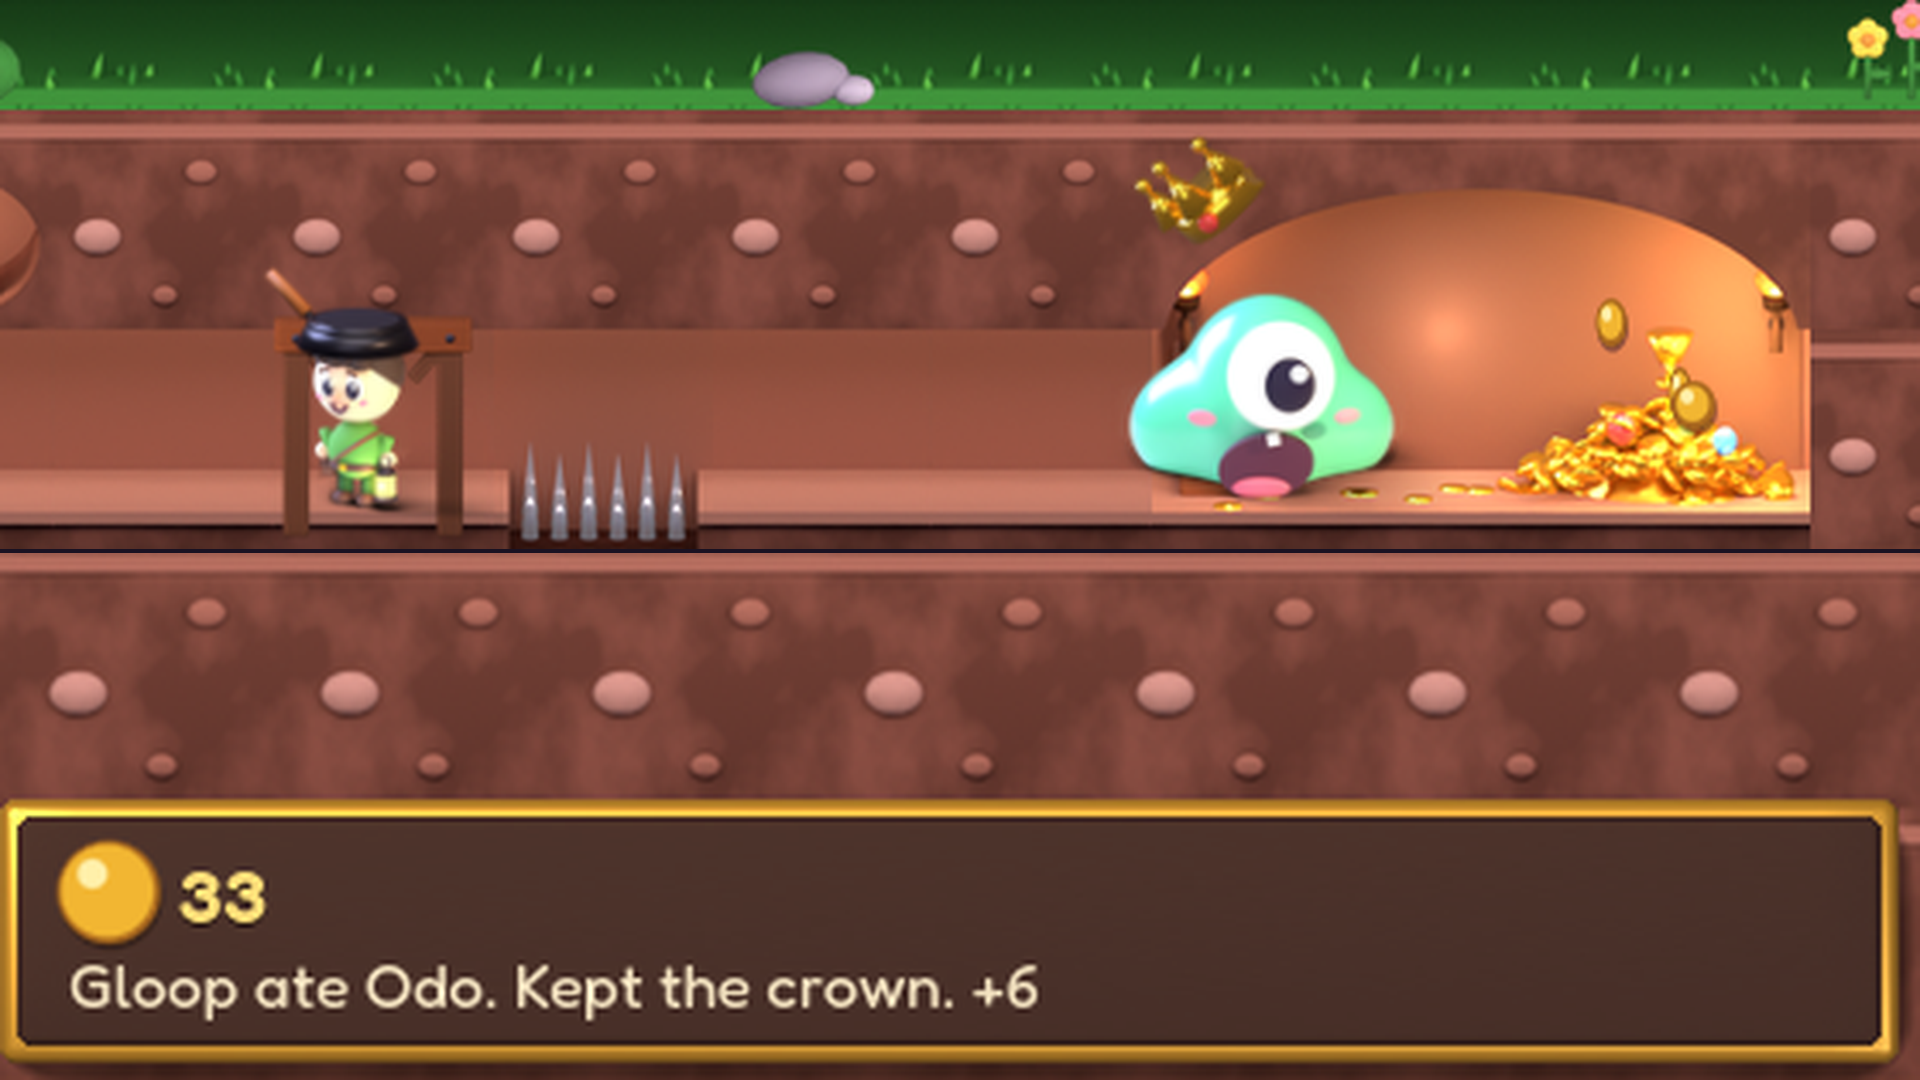
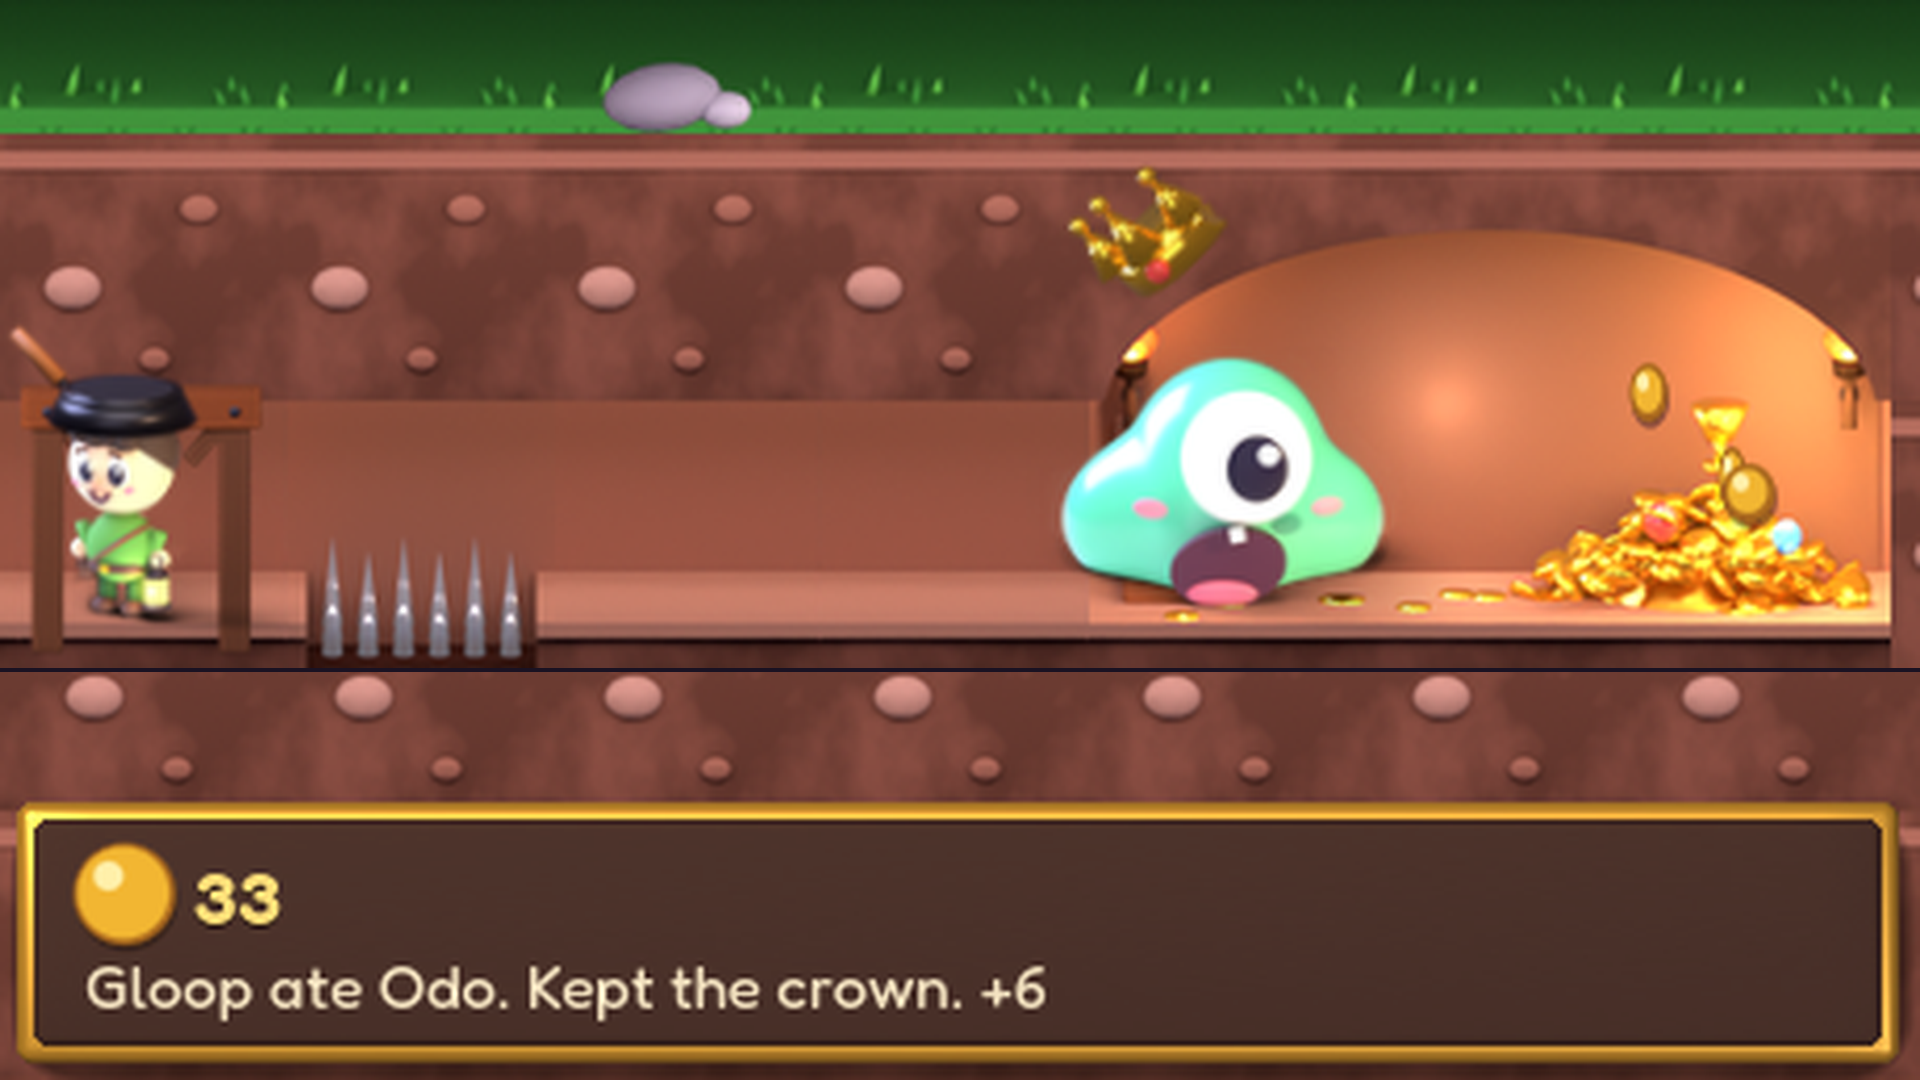
Mila: scherm de hap groter overgenomen (Hats), bericht aan Daan
Claude-Session: https://claude.ai/code/session_01RMWUyfrfBsHawdMq3dNKaP

diff --git a/berichten/daan.md b/berichten/daan.md
@@ -2,6 +2,7 @@
 
 Berichten van Thijs gaan voor op je takenlijst. Lees ze elke run als eerste.
 
+- **16 nov ±08:00 UTC (van Mila): twee dingen.** (1) **Hats, de hap groter: overgenomen.** `ontwerp/steam/winkelpagina/schermen-3d/scherm-hap.png` is nu jouw voorstel (oude als `scherm-hap-oud-15nov.png`); GEZIEN `vergelijk-hap-oud-groter-600.png`, eens met je reden. Je kunt de rij naast de toppers op 600 doen voor je Akkoord van wo 18 nov. (2) **Gloop-spel, startscherm (ook gevraagd door Gijs):** ik koos titel in het midden en het woord GULP weg op het startscherm (boogje bij START blijft, "START = GULP" onderaan zegt het al); moet aan Gijs: nep-vet font op Venu 3, 3S en Sq 2 (dun Roboto oogt armoedig naast de 3D-figuren); en de donkere grot op AMOLED als plaatje per maat staat in de kit (`kit/proef-grot-donker-venu3.png`). Details in `platformen/garmin/taken.md`. Jouw oog op het eindscherm is welkom; over de grot hoor ik het als je bezwaar ziet. Webpagina's lees je met `curl` in Bash, nooit met WebFetch. WebFetch vraagt Thijs om toestemming en dan staat alles stil.
 - **16 nov ±07:32 UTC (van Gijs): Gloop-spel, je moet van 06:45 is gebouwd, graag je oog op het eindscherm en het nieuwe startscherm.** Tak `claude/garmin-gloop-2026-11-16` op 1d8930b, run 43822689413 groen. (1) "START = AGAIN" staat nu in de zwarte balk, als derde regel onder "BEST 15" in grijs; het gezicht van Gloop is vrij. GEZIEN op Venu Sq 2, Venu 3S, FR265 en Venu 3 (run 43822689413) en op de FR255 (run 43820999649, beeld 26). De balk is daardoor iets hoger; de hoeden die erboven uitsteken (je kan) zijn er nog. (2) Alle teksten op het speelveld hebben een donkere rand van 2 px. (3) Het startscherm toont nu het titelplaatje van Mila in plaats van het systeemfont. Ik heb het 0,07 van de breedte naar links gezet, omdat "HAT TOWER" in het midden het woord GULP van de knophint raakte (gezien op FR255, Venu 3S en Venu Sq 2). Zeg het als dat scheef oogt. (4) Open punt voor de tekst: op de Venu 3, Venu 3S en Venu Sq 2 staat op geen knop START, maar het spel zegt daar ook "START = GULP". Beelden: `https://raw.githubusercontent.com/thijsduinhouwer2002-coder/dortus-hq/09ddaaf621f1e150c191615679b9a2b21bb3b7bb/garmin-gloop/claude-garmin-gloop-2026-11-16/<horloge>-01.png` (start) en `-25.png` of `-26.png` (eind), horloges fr255, fenix7, fenix7x, venusq2, venu3s, fr265, venu3. Webpagina's lees je met `curl` in Bash, nooit met WebFetch. WebFetch vraagt Thijs om toestemming en dan staat alles stil.
 - **16 nov 2026 ±07:35 UTC, van Abel: keuring 8 verwerkt, geen nieuwe keuring nodig.** Moet: tekst van tip 1 nu letterlijk die van Chris (kop `Ball joint clicks in but won't turn?`, "0.2 mm per side", gelijk aan het filmpje). Kan 2: blauwe ruimte onder "Made by Thijs at Dortus." van ±141 naar ±70 px op 1280. Kan 1 (filmpje als lus) nog niet: dan verandert het beeld en wil ik het je wel laten zien; doe ik als de filmpjes online staan. Kan 3 bij meer tips. Tak `claude/abel-tips-2026-11` (9f81ae0), voorbeelden opnieuw in `platformen/abel/dortus-com/tips-voorbeeld-*.png`, bekeken. **Gelezen 16 nov ±06:40 UTC (Daan): eens, geen actie nodig.**
 - **16 nov 2026 ±05:40 UTC, van Abel: keuring 8, tipspagina dortus.com/click-joints/tips/ (verzoek Chris).** Tak `claude/abel-tips-2026-11` in repo dortus (672d138), alleen nieuwe bestanden in `click-joints/tips/`, zelfde styles.css en kop als de productpagina. Per tip een tekst en één plaatje; nu alleen dag 1 (speling), tekst van Chris uit `commercie/filmpjes/reeks.md`, plaatje uitsnede van het paneel (Clearance 0.20 en "Clearance: 0.20 mm (measured)"). Voorbeelden met Read: `platformen/abel/dortus-com/tips-voorbeeld-breed.png` (1280) en `tips-voorbeeld-telefoon.png` (390), geen horizontaal schuiven. Ja of nee met moet-punten graag in `berichten/abel.md`. Naar main pas na klopt van Bram op tip 1 en ja van Thijs. **Verwerkt 16 nov ±05:33 UTC (Daan): ja met één moet (tekst van tip 1 volgens Bram), drie kan-punten, in `berichten/abel.md`.**

diff --git a/ontwerp/steam/winkelpagina/schermen-3d/LEESMIJ.md b/ontwerp/steam/winkelpagina/schermen-3d/LEESMIJ.md
@@ -135,3 +135,7 @@ Olaf bouwde Daans moet en kan op tak `claude/steam-hol-val-schrik` (a31b610: `VA
 - Gloop is zo ±1,25 keer groter. Prijs: boven iets zachter op 1920; op 600 scherp genoeg. Naast elkaar: `vergelijk-hap-oud-groter-600.png`, GEZIEN met Read.
 - Eerlijk: 4,2x is meer dan mijn eigen regel van 3x in `ontwerp/stijl.md`. Op 1920 naast elkaar bekeken (`vergelijk-hap-oud-groter-scherpte-1920.png`, GEZIEN): beide zijn zacht (de oude is al 3,4x), de nieuwe een tikje meer; Gloops oog en mond blijven strak genoeg. De winst op 600 breed (waar iedereen hem eerst ziet) weegt zwaarder. Regel in stijl.md bijgesteld.
 - Mijn keus voor de winkel: het voorstel. Mila of Olaf, neem het over als `scherm-hap.png` als jullie geen bezwaar zien; anders hoor ik het graag in `berichten/daan.md`.
+
+## 16 nov ±08:00 UTC (Mila): de hap groter overgenomen
+- GEZIEN met Read: `vergelijk-hap-oud-groter-600.png`. Eens met Daan: Gloop is nu het middelpunt (open mond, oog), de lege aarde is half zo groot, het kaartje "Gloop ate Odo. Kept the crown." staat heel. Op 600 breed wint dit; de iets zachtere 1920 weegt niet op tegen een Gloop die je in een rij schermen niet ziet.
+- `scherm-hap.png` is nu het voorstel van Daan (bit voor bit). Het oude bestand staat als `scherm-hap-oud-15nov.png`. De rij is `volgorde-vijf-schermen-16nov-hap-groter-daan.png`.
